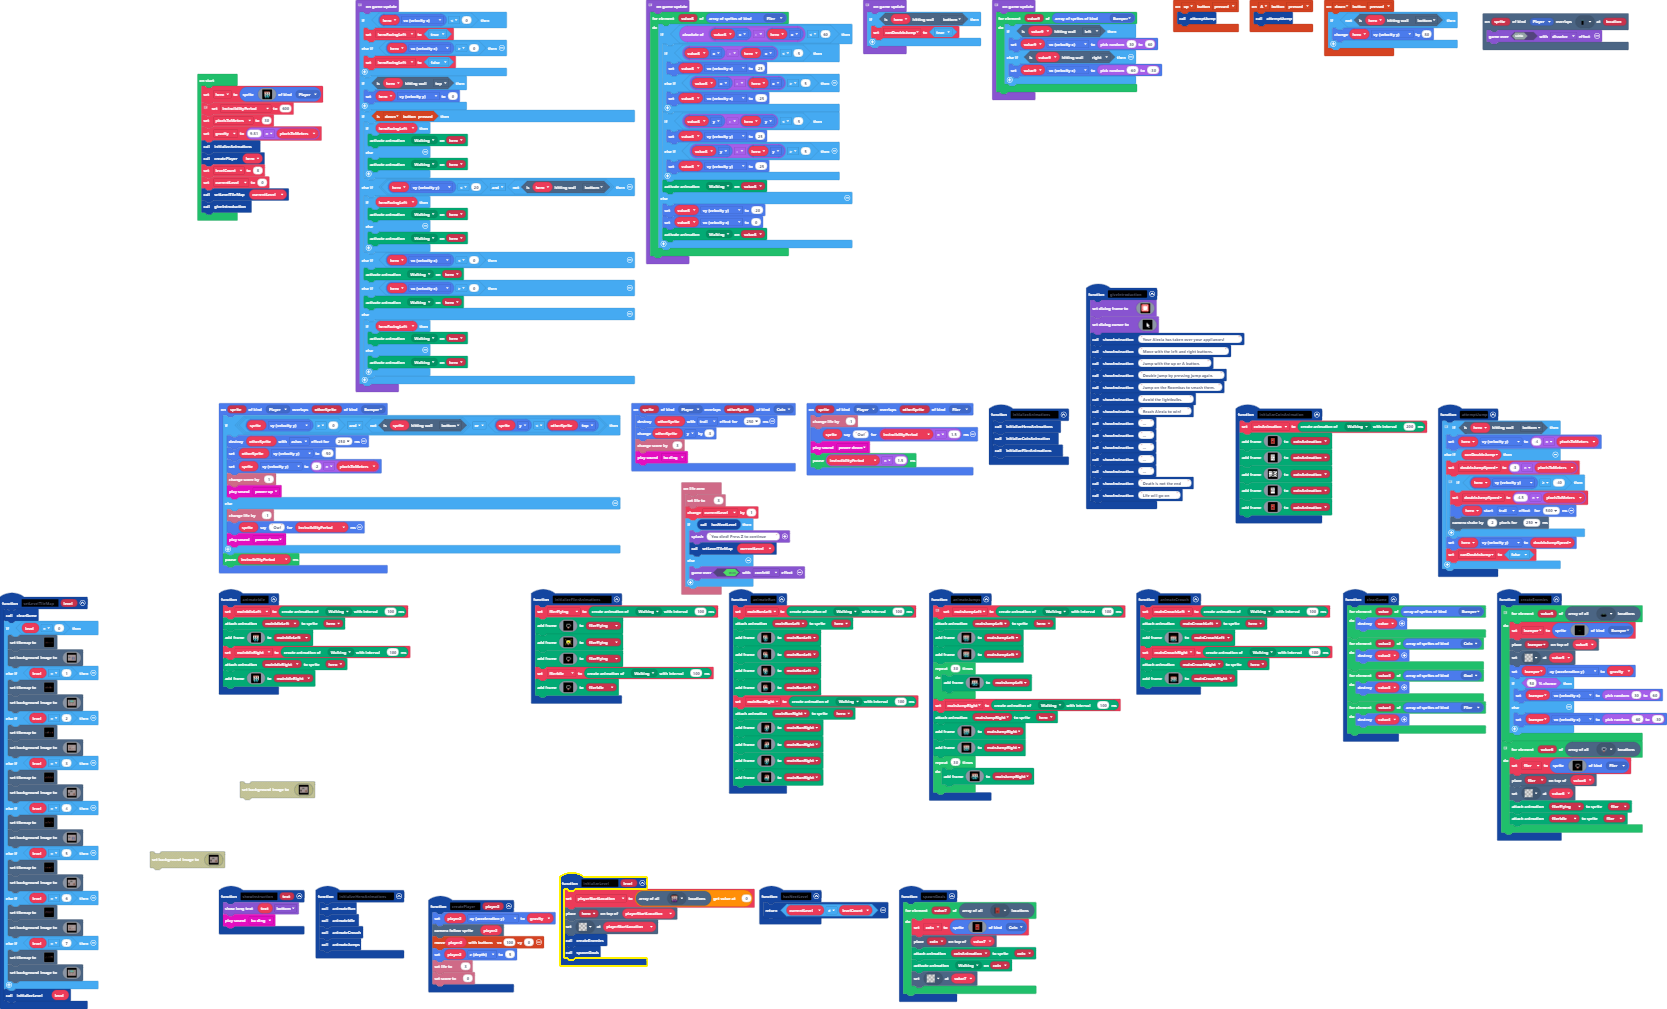
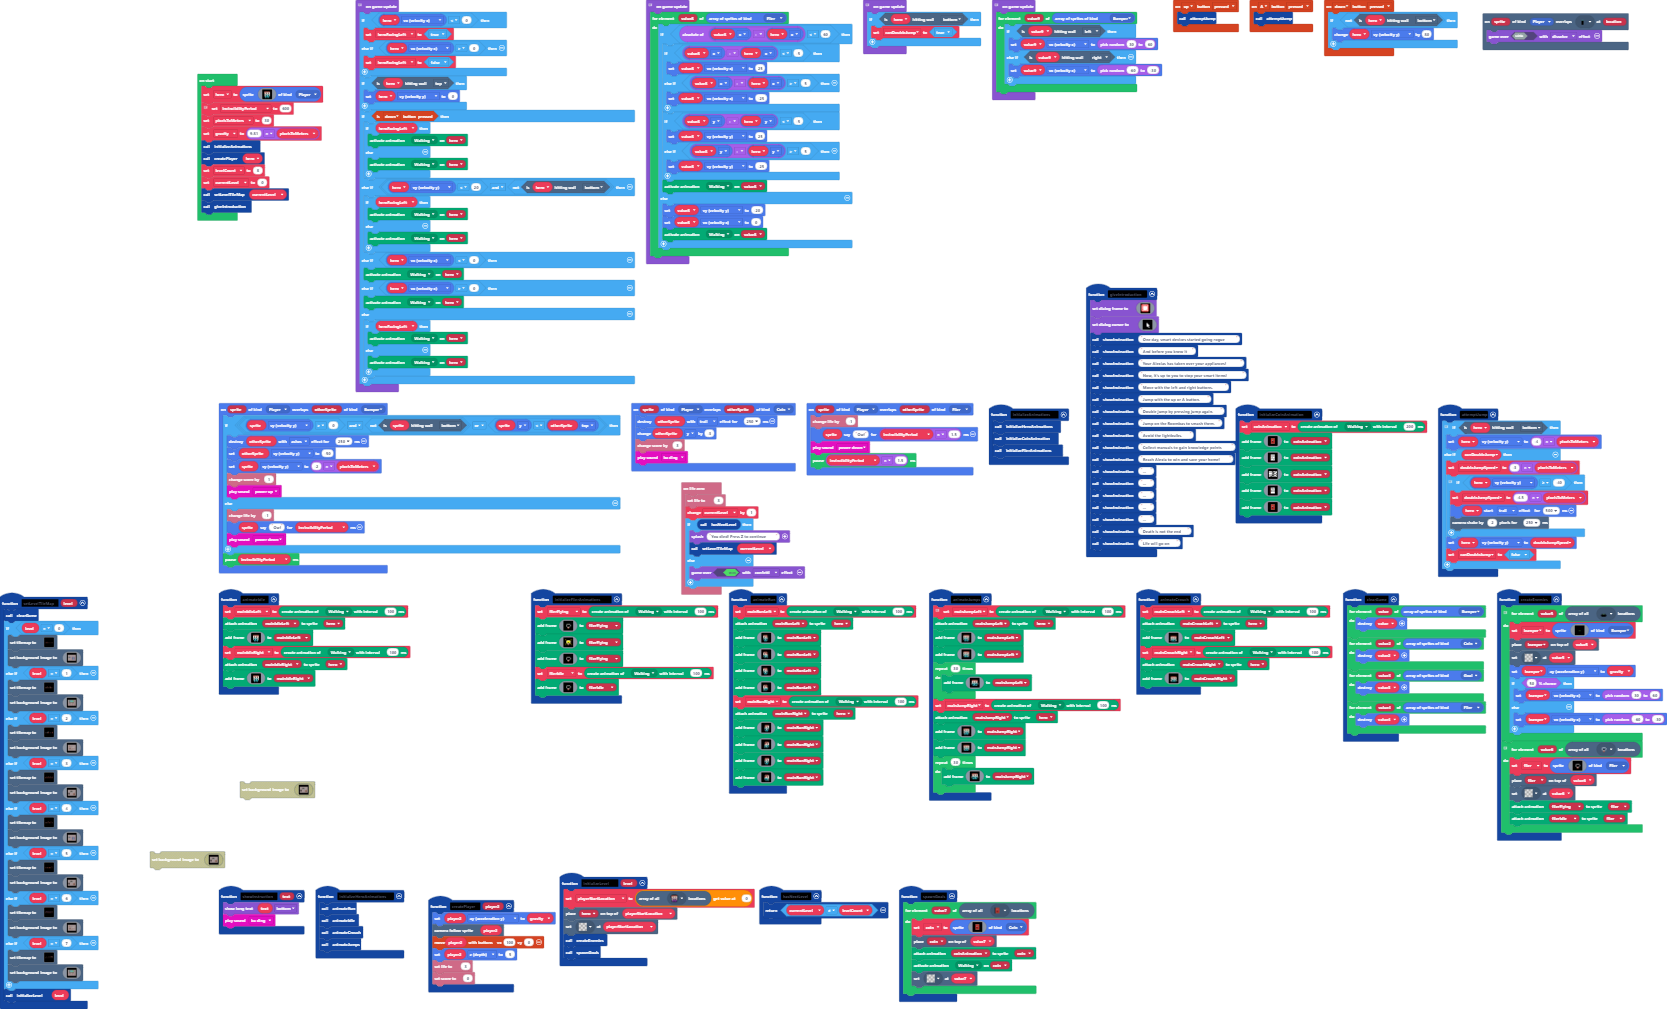
Updated story and moved books in Bedroom 1

Changed region(s): [[0.6239, 0.338, 0.7487, 0.553], [0.3431, 0.8603, 0.3743, 0.891]]

diff --git a/tilemap.g.ts b/tilemap.g.ts
@@ -96,17 +96,6 @@ namespace myTiles {
 . . . . 2 2 2 2 2 . . . . 2 . . . . 2 . . . . . . 2 . . . . . 2 
 2 2 2 2 2 2 2 2 2 2 2 2 2 2 2 2 2 2 2 2 2 2 2 2 2 2 2 2 2 2 2 2 
 `, [myTiles.tile0,myTiles.tile8,myTiles.tile10,myTiles.tile11,myTiles.tile13,myTiles.tile6,myTiles.tile21,myTiles.tile37,myTiles.tile38,myTiles.tile39,myTiles.tile33], TileScale.Sixteen);
-            case "Bedroom 1":
-            case "level_0":return tiles.createTilemap(hex`2000080000000000000000000000000000000000000000000000000000000000000000000000000000000000000000000000000000000000000600000000000000000000000000000000000000000000000000000000000604060000000000000000000000000000000000070800060000000000000600060406000000000000000000000000000000000606060006000000000600060006040600000000000000000000060000000006060606000600000600060406040604060007080000000000000006050007080000000000060000060002000000020406000708000000000001000303030303030303030303030303030303030303030303030303030303030303`, img`
-. . . . . . . . . . . . . . . . . . . . . . . . . . . . . . . . 
-. . . . . . . . . . . . . . . . . . . . . 2 . . . . . . . . . . 
-. . . . . . . . . . . . . . . . . . . 2 . 2 . . . . . . . . . . 
-. . . . . . . 2 2 . 2 . . . . . . 2 . 2 . 2 . . . . . . . . . . 
-. . . . . . 2 2 2 . 2 . . . . 2 . 2 . 2 . 2 . . . . . . . . . . 
-2 . . . . 2 2 2 2 . 2 . . 2 . 2 . 2 . 2 . 2 . 2 2 . . . . . . . 
-2 . . 2 2 . . . . . 2 . . 2 . . . . . . . 2 . 2 2 . . . . . . . 
-2 2 2 2 2 2 2 2 2 2 2 2 2 2 2 2 2 2 2 2 2 2 2 2 2 2 2 2 2 2 2 2 
-`, [myTiles.tile0,myTiles.tile8,myTiles.tile10,myTiles.tile11,myTiles.tile13,myTiles.tile6,myTiles.tile33,myTiles.tile34,myTiles.tile35], TileScale.Sixteen);
             case "Living Room 2":
[1 lines of base64/hex data omitted]
 . . . . . . . . . . . . . . . . . . . . . . . . . . . . . . . . 
@@ -173,6 +162,17 @@ namespace myTiles {
 . . 2 2 2 . . . . . 2 . . . . . 2 . . . . . 2 . . . . . . . . . 
 2 2 2 2 2 2 2 2 2 2 2 2 2 2 2 2 2 2 2 2 2 2 2 2 2 2 2 2 2 2 2 2 
 `, [myTiles.tile0,myTiles.tile8,myTiles.tile9,myTiles.tile10,myTiles.tile11,myTiles.tile13,myTiles.tile6,myTiles.tile15,myTiles.tile16,myTiles.tile19,myTiles.tile31,myTiles.tile32,myTiles.tile17,myTiles.tile12], TileScale.Sixteen);
+            case "Bedroom 1":
+            case "level_0":return tiles.createTilemap(hex`2000080000000000000000000000000000000000000000000000000000000000000000000000000000000000040000000000000000000000000600000000000000000000000000000000000000000400000000000000000604060000000000000000000000000000000000070800060000000000000600060406000000000000000000000000000000000606060006000000000600060006040600000000000000000000060000000006060606000600000600060006000604060007080000000000000006050007080000000000060000060002000000020406000708000000000001000303030303030303030303030303030303030303030303030303030303030303`, img`
+. . . . . . . . . . . . . . . . . . . . . . . . . . . . . . . . 
+. . . . . . . . . . . . . . . . . . . . . 2 . . . . . . . . . . 
+. . . . . . . . . . . . . . . . . . . 2 . 2 . . . . . . . . . . 
+. . . . . . . 2 2 . 2 . . . . . . 2 . 2 . 2 . . . . . . . . . . 
+. . . . . . 2 2 2 . 2 . . . . 2 . 2 . 2 . 2 . . . . . . . . . . 
+2 . . . . 2 2 2 2 . 2 . . 2 . 2 . 2 . 2 . 2 . 2 2 . . . . . . . 
+2 . . 2 2 . . . . . 2 . . 2 . . . . . . . 2 . 2 2 . . . . . . . 
+2 2 2 2 2 2 2 2 2 2 2 2 2 2 2 2 2 2 2 2 2 2 2 2 2 2 2 2 2 2 2 2 
+`, [myTiles.tile0,myTiles.tile8,myTiles.tile10,myTiles.tile11,myTiles.tile13,myTiles.tile6,myTiles.tile33,myTiles.tile34,myTiles.tile35], TileScale.Sixteen);
         }
         return null;
     })

diff --git a/main.ts b/main.ts
@@ -74,13 +74,17 @@ function giveIntroduction () {
         . . . . . . . . . . f f f . . . 
         . . . . . . . . . . . . . . . . 
         `)
-    showInstruction("Your Alexia has taken over your appliances!")
+    showInstruction("One day, smart devices started going rogue")
+    showInstruction("And before you knew it")
+    showInstruction("Your Alexias has taken over your appliances!")
+    showInstruction("Now, it's up to you to stop your smart items!")
     showInstruction("Move with the left and right buttons.")
     showInstruction("Jump with the up or A button.")
     showInstruction("Double jump by pressing jump again.")
     showInstruction("Jump on the Roombas to smash them.")
     showInstruction("Avoid the lightbulbs.")
-    showInstruction("Reach Alexia to win!")
+    showInstruction("Collect manuals to gain knowledge points")
+    showInstruction("Reach Alexia to win and save your home!")
     showInstruction("...")
     showInstruction("...")
     showInstruction("...")
